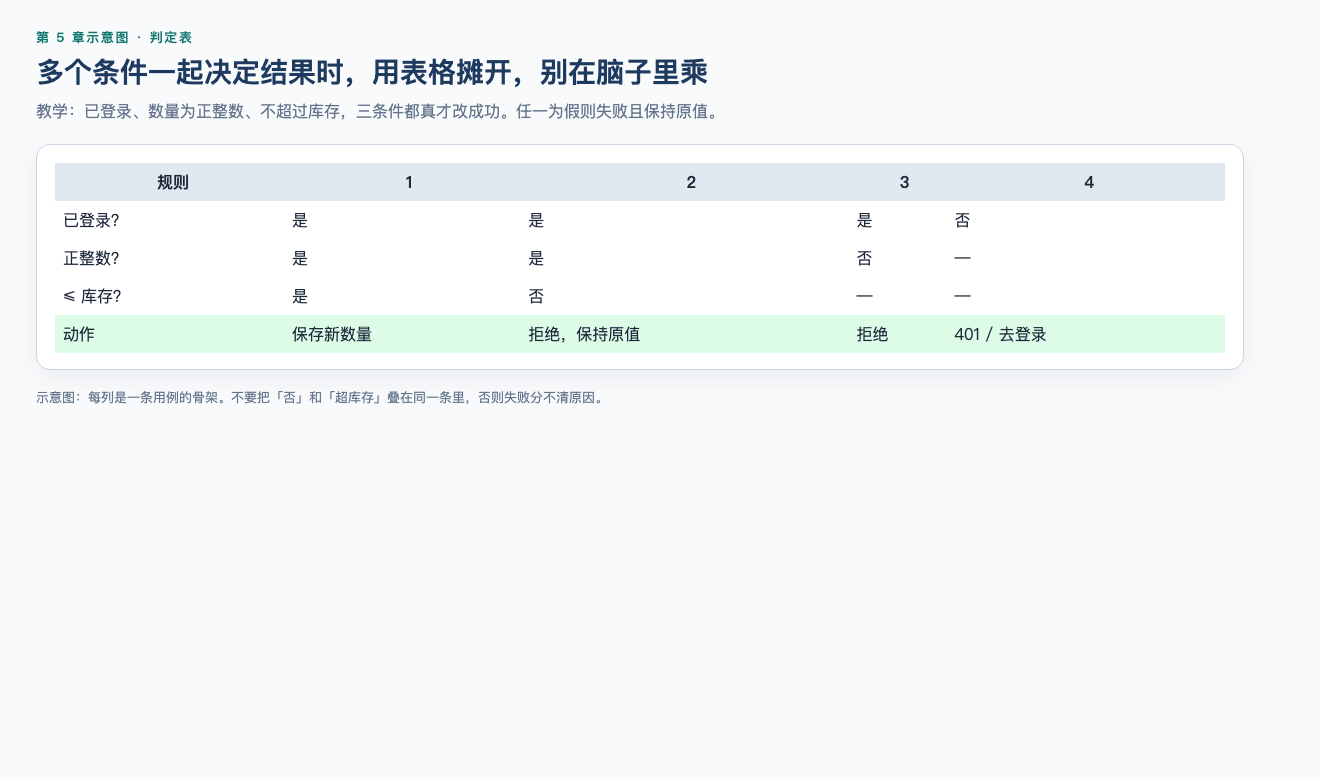
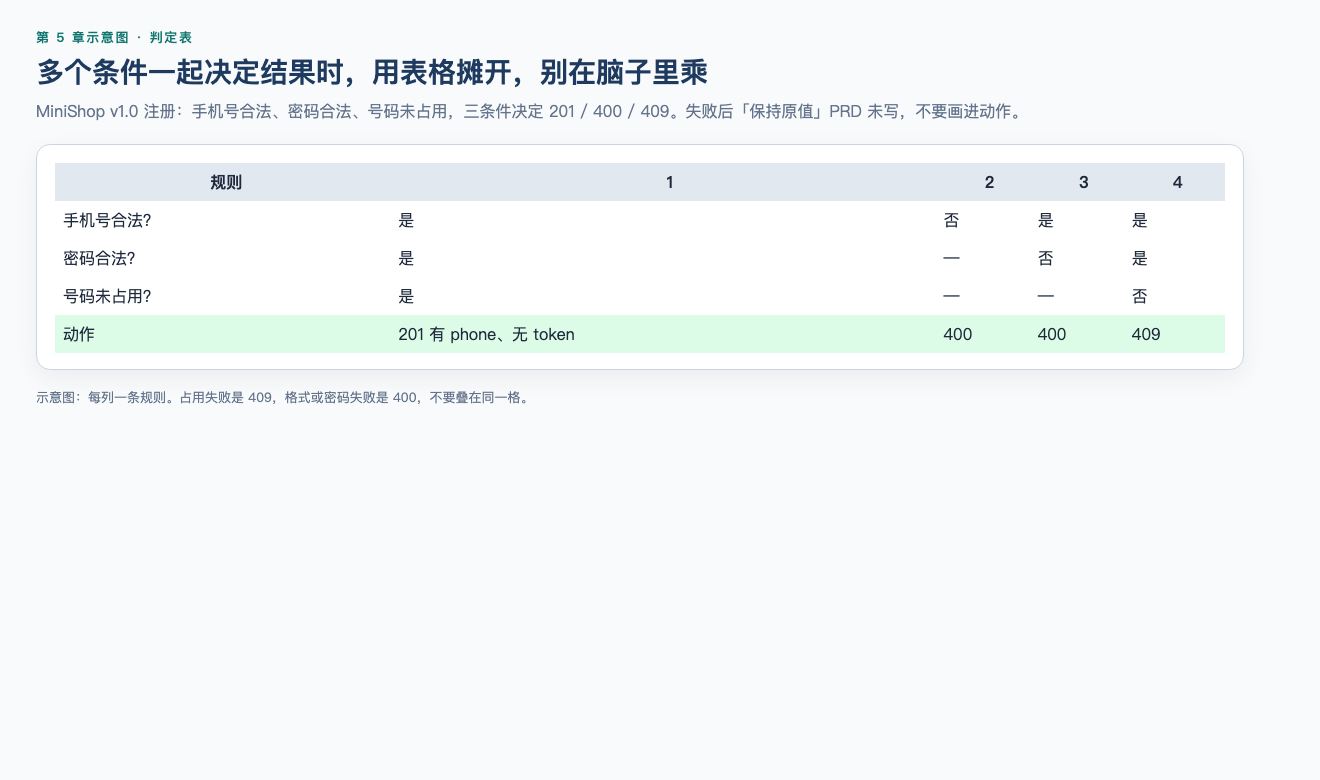
fix(ch05): teach decision tables on MiniShop register
Move coupon tables to the generic-practice section. One pass bar: 5-1 plus
one MiniShop case file. Caption no longer talks about overstock.

diff --git a/chapters/assets/diagrams/ch05-decision-table.html b/chapters/assets/diagrams/ch05-decision-table.html
@@ -3,17 +3,17 @@
 <body><div class="page">
 <p class="kicker">第 5 章示意图 · 判定表</p>
 <h1>多个条件一起决定结果时，用表格摊开，别在脑子里乘</h1>
-<p class="lead">教学：已登录、数量为正整数、不超过库存，三条件都真才改成功。任一为假则失败且保持原值。</p>
+<p class="lead">MiniShop v1.0 注册：手机号合法、密码合法、号码未占用，三条件决定 201 / 400 / 409。失败后「保持原值」PRD 未写，不要画进动作。</p>
 
     <div class="card">
     <table style="width:100%;border-collapse:collapse;font-size:16px">
       <tr style="background:#e2e8f0"><th style="padding:8px">规则</th><th>1</th><th>2</th><th>3</th><th>4</th></tr>
-      <tr><td style="padding:8px">已登录？</td><td>是</td><td>是</td><td>是</td><td>否</td></tr>
-      <tr><td style="padding:8px">正整数？</td><td>是</td><td>是</td><td>否</td><td>—</td></tr>
-      <tr><td style="padding:8px">≤ 库存？</td><td>是</td><td>否</td><td>—</td><td>—</td></tr>
-      <tr style="background:#dcfce7"><td style="padding:8px">动作</td><td>保存新数量</td><td>拒绝，保持原值</td><td>拒绝</td><td>401 / 去登录</td></tr>
+      <tr><td style="padding:8px">手机号合法？</td><td>是</td><td>否</td><td>是</td><td>是</td></tr>
+      <tr><td style="padding:8px">密码合法？</td><td>是</td><td>—</td><td>否</td><td>是</td></tr>
+      <tr><td style="padding:8px">号码未占用？</td><td>是</td><td>—</td><td>—</td><td>否</td></tr>
+      <tr style="background:#dcfce7"><td style="padding:8px">动作</td><td>201 有 phone、无 token</td><td>400</td><td>400</td><td>409</td></tr>
     </table>
     </div>
     
-<p class="caption">示意图：每列是一条用例的骨架。不要把「否」和「超库存」叠在同一条里，否则失败分不清原因。</p>
+<p class="caption">示意图：每列一条规则。占用失败是 409，格式或密码失败是 400，不要叠在同一格。</p>
 </div></body></html>

diff --git a/chapters/assets/diagrams/ch05-equivalence.html b/chapters/assets/diagrams/ch05-equivalence.html
@@ -27,8 +27,8 @@
       <span class="tag tag-ok">有效类</span>
       <h2>恰好 11 位数字</h2>
       <p>系统按「格式合法」处理</p>
-      <div class="phone">13800138000</div>
-      <div class="pick">代表值：一个未占用的合法号<br>13800138001 通常还在同一类</div>
+      <div class="phone">13900001111</div>
+      <div class="pick">代表值：一个未占用的合法号<br>种子号 13800138000 已经注册，不能当未占用</div>
     </div>
     <div class="col bin card" style="background:var(--red-soft);border-color:#fecaca;">
       <span class="tag tag-bad">无效类</span>
